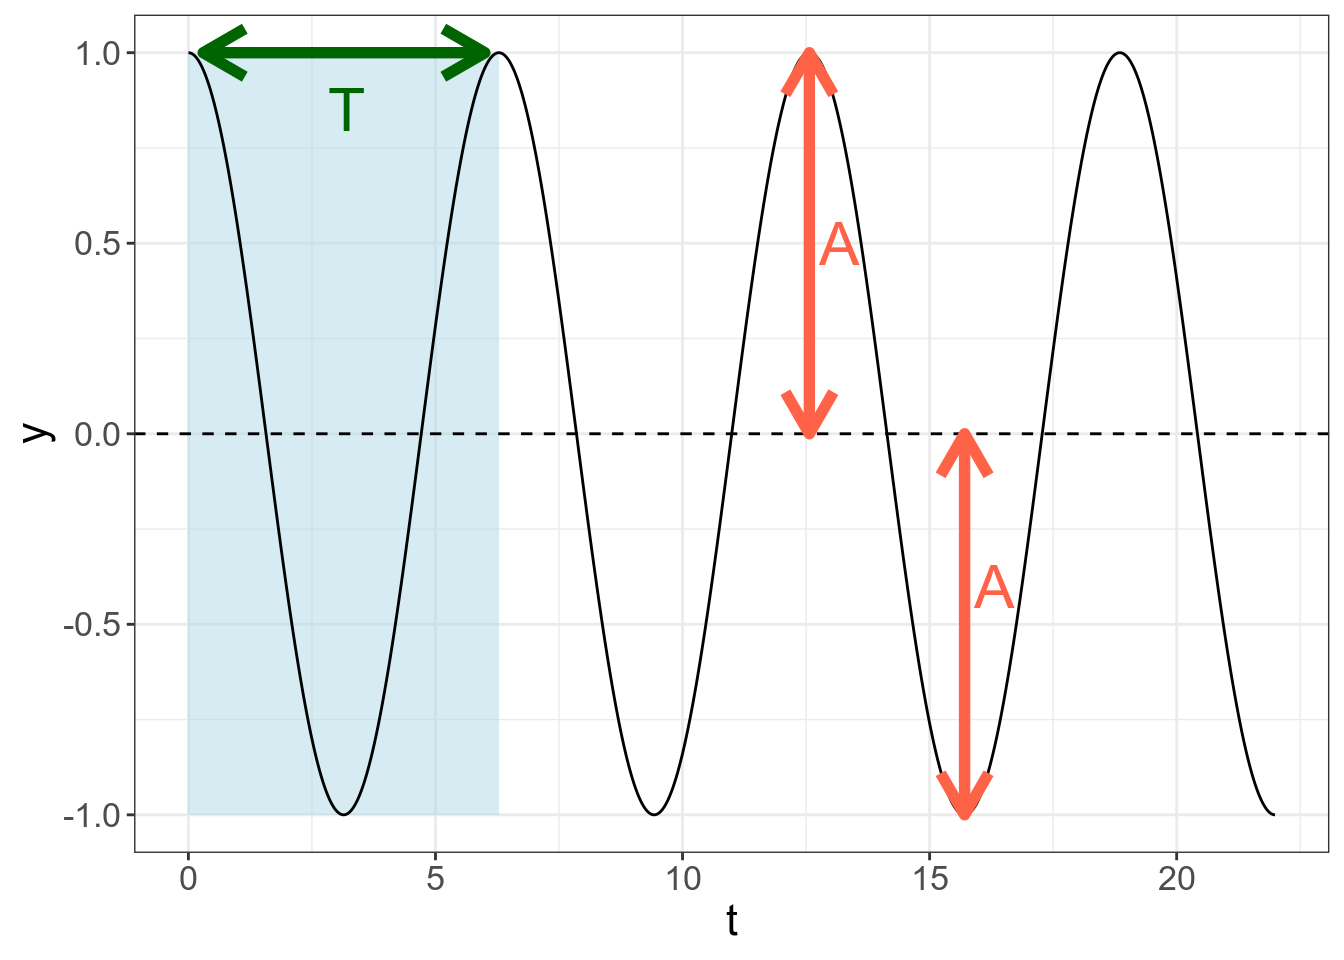
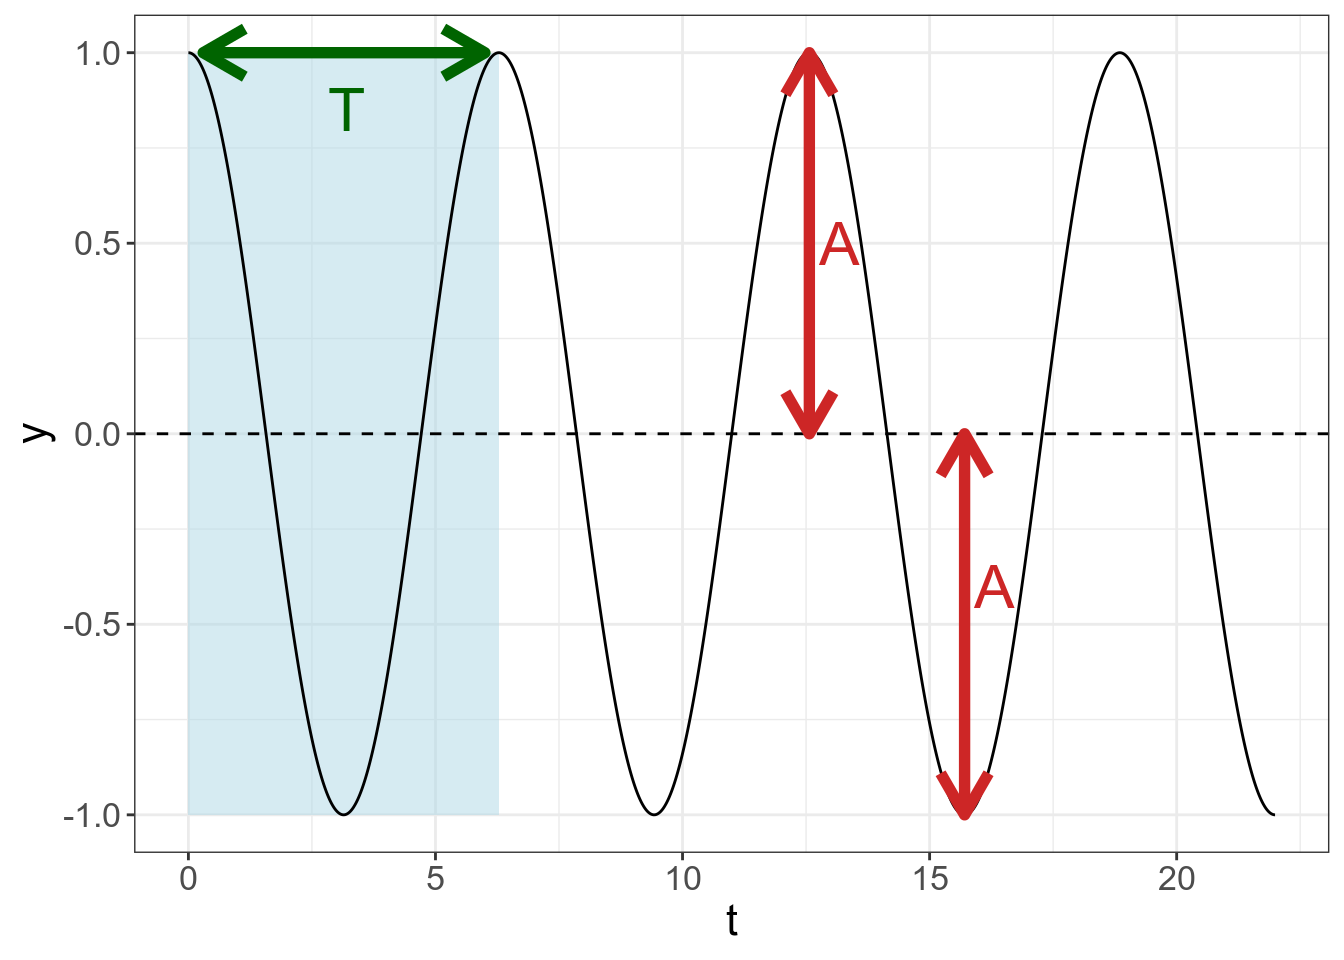
add intro to math

Changed region(s): [[0.6875, 0.4375, 0.75, 0.8438], [0.5625, 0.0312, 0.6562, 0.4688]]

diff --git a/docs/1_math.html b/docs/1_math.html
@@ -371,7 +371,7 @@ $(document).ready(function ()  {
 
     // establish options
     var options = {
-      selectors: "h1,h2,h3,h4",
+      selectors: "h1,h2,h3",
       theme: "bootstrap3",
       context: '.toc-content',
       hashGenerator: function (text) {
@@ -577,16 +577,16 @@ div.tocify {
 <span id="cb4-6"><a href="#cb4-6"></a><span class="st">  </span><span class="kw">geom_hline</span>(<span class="dt">yintercept =</span> <span class="dv">0</span>, <span class="dt">linetype =</span> <span class="dv">2</span>)<span class="op">+</span></span>
 <span id="cb4-7"><a href="#cb4-7"></a><span class="st">  </span><span class="kw">annotate</span>(<span class="st">&quot;segment&quot;</span>, <span class="dt">x =</span> <span class="fl">0.3</span>, <span class="dt">xend =</span> <span class="dv">6</span>, <span class="dt">y =</span> <span class="dv">1</span>, <span class="dt">yend =</span> <span class="dv">1</span>, <span class="dt">color =</span> <span class="st">&quot;darkgreen&quot;</span>, <span class="dt">size =</span> <span class="dv">2</span>, <span class="dt">arrow =</span> <span class="kw">arrow</span>(<span class="dt">ends =</span> <span class="st">&quot;both&quot;</span>))<span class="op">+</span></span>
 <span id="cb4-8"><a href="#cb4-8"></a><span class="st">  </span><span class="kw">annotate</span>(<span class="st">&quot;text&quot;</span>, <span class="dt">x =</span> <span class="fl">3.2</span>, <span class="dt">y =</span> <span class="fl">0.85</span>, <span class="dt">label =</span> <span class="st">&quot;T&quot;</span>, <span class="dt">size =</span> <span class="dv">8</span>, <span class="dt">color =</span> <span class="st">&quot;darkgreen&quot;</span>)<span class="op">+</span></span>
-<span id="cb4-9"><a href="#cb4-9"></a><span class="st">  </span><span class="kw">annotate</span>(<span class="st">&quot;segment&quot;</span>, <span class="dt">x =</span> <span class="dv">4</span><span class="op">*</span>pi, <span class="dt">xend =</span> <span class="dv">4</span><span class="op">*</span>pi, <span class="dt">y =</span> <span class="dv">0</span>, <span class="dt">yend =</span> <span class="dv">1</span>, <span class="dt">color =</span> <span class="st">&quot;tomato&quot;</span>, <span class="dt">size =</span> <span class="dv">2</span>, <span class="dt">arrow =</span> <span class="kw">arrow</span>(<span class="dt">ends =</span> <span class="st">&quot;both&quot;</span>))<span class="op">+</span></span>
-<span id="cb4-10"><a href="#cb4-10"></a><span class="st">  </span><span class="kw">annotate</span>(<span class="st">&quot;text&quot;</span>, <span class="dt">x =</span> <span class="dv">4</span><span class="op">*</span>pi<span class="fl">+0.6</span>, <span class="dt">y =</span> <span class="fl">0.5</span>, <span class="dt">label =</span> <span class="st">&quot;A&quot;</span>, <span class="dt">size =</span> <span class="dv">8</span>, <span class="dt">color =</span> <span class="st">&quot;tomato&quot;</span>)<span class="op">+</span></span>
-<span id="cb4-11"><a href="#cb4-11"></a><span class="st">  </span><span class="kw">annotate</span>(<span class="st">&quot;segment&quot;</span>, <span class="dt">x =</span> <span class="dv">5</span><span class="op">*</span>pi, <span class="dt">xend =</span> <span class="dv">5</span><span class="op">*</span>pi, <span class="dt">y =</span> <span class="dv">0</span>, <span class="dt">yend =</span> <span class="dv">-1</span>, <span class="dt">color =</span> <span class="st">&quot;tomato&quot;</span>, <span class="dt">size =</span> <span class="dv">2</span>, <span class="dt">arrow =</span> <span class="kw">arrow</span>(<span class="dt">ends =</span> <span class="st">&quot;both&quot;</span>))<span class="op">+</span></span>
-<span id="cb4-12"><a href="#cb4-12"></a><span class="st">  </span><span class="kw">annotate</span>(<span class="st">&quot;text&quot;</span>, <span class="dt">x =</span> <span class="dv">5</span><span class="op">*</span>pi<span class="fl">+0.6</span>, <span class="dt">y =</span> <span class="fl">-0.4</span>, <span class="dt">label =</span> <span class="st">&quot;A&quot;</span>, <span class="dt">size =</span> <span class="dv">8</span>, <span class="dt">color =</span> <span class="st">&quot;tomato&quot;</span>)</span></code></pre></div>
+<span id="cb4-9"><a href="#cb4-9"></a><span class="st">  </span><span class="kw">annotate</span>(<span class="st">&quot;segment&quot;</span>, <span class="dt">x =</span> <span class="dv">4</span><span class="op">*</span>pi, <span class="dt">xend =</span> <span class="dv">4</span><span class="op">*</span>pi, <span class="dt">y =</span> <span class="dv">0</span>, <span class="dt">yend =</span> <span class="dv">1</span>, <span class="dt">color =</span> <span class="st">&quot;firebrick3&quot;</span>, <span class="dt">size =</span> <span class="dv">2</span>, <span class="dt">arrow =</span> <span class="kw">arrow</span>(<span class="dt">ends =</span> <span class="st">&quot;both&quot;</span>)) <span class="op">+</span></span>
+<span id="cb4-10"><a href="#cb4-10"></a><span class="st">  </span><span class="kw">annotate</span>(<span class="st">&quot;text&quot;</span>, <span class="dt">x =</span> <span class="dv">4</span><span class="op">*</span>pi<span class="fl">+0.6</span>, <span class="dt">y =</span> <span class="fl">0.5</span>, <span class="dt">label =</span> <span class="st">&quot;A&quot;</span>, <span class="dt">size =</span> <span class="dv">8</span>, <span class="dt">color =</span> <span class="st">&quot;firebrick3&quot;</span>) <span class="op">+</span></span>
+<span id="cb4-11"><a href="#cb4-11"></a><span class="st">  </span><span class="kw">annotate</span>(<span class="st">&quot;segment&quot;</span>, <span class="dt">x =</span> <span class="dv">5</span><span class="op">*</span>pi, <span class="dt">xend =</span> <span class="dv">5</span><span class="op">*</span>pi, <span class="dt">y =</span> <span class="dv">0</span>, <span class="dt">yend =</span> <span class="dv">-1</span>, <span class="dt">color =</span> <span class="st">&quot;firebrick3&quot;</span>, <span class="dt">size =</span> <span class="dv">2</span>, <span class="dt">arrow =</span> <span class="kw">arrow</span>(<span class="dt">ends =</span> <span class="st">&quot;both&quot;</span>)) <span class="op">+</span></span>
+<span id="cb4-12"><a href="#cb4-12"></a><span class="st">  </span><span class="kw">annotate</span>(<span class="st">&quot;text&quot;</span>, <span class="dt">x =</span> <span class="dv">5</span><span class="op">*</span>pi<span class="fl">+0.6</span>, <span class="dt">y =</span> <span class="fl">-0.4</span>, <span class="dt">label =</span> <span class="st">&quot;A&quot;</span>, <span class="dt">size =</span> <span class="dv">8</span>, <span class="dt">color =</span> <span class="st">&quot;firebrick3&quot;</span>)</span></code></pre></div>
 <p><img src="1_math_files/figure-html/unnamed-chunk-4-1.png" width="672" /></p>
 <ul>
 <li>частота (f) — число периодов за секунду</li>
 </ul>
 <p><span class="math display">\[f = \frac{1}{T}; T = \frac{1}{f}\]</span></p>
-<p>*Звуковая волна — обычная гармоническое колебания, а параметры этого колебания связаны с некоторыми параметрами нашего восприятия:</p>
+<p>Звуковая волна — обычная гармоническое колебания, а параметры этого колебания связаны с некоторыми параметрами нашего восприятия:</p>
 <ul>
 <li><p>мы воспринимаем изменения в частотах как изменения в “высоте” звука;</p></li>
 <li><p>мы воспринимаем изменения в амплитуде волны как изменения в “громкости” звука.</p></li>
@@ -594,8 +594,8 @@ div.tocify {
 </ul>
 </div>
 </div>
-<div id="section-3" class="section level1">
-<h1>7. Дополнительные материалы</h1>
+<div id="section-3" class="section level2">
+<h2>7. Дополнительные материалы</h2>
 <ul>
 <li><a href="https://pudding.cool/2018/02/waveforms/">прекрасные материалы</a>, сделанные <a href="https://github.com/joshwcomeau"><strong>Джошуа Комо</strong></a> про волны</li>
 <li><a href="https://www.youtube.com/watch?v=T647CGsuOVU&amp;list=PLiaHhY2iBX9g6KIvZ_703G3KJXapKkNaF&amp;t=0s&amp;index=2">13 видео</a>, сделанные <a href="http://www.welchlabs.com/"><strong>Welch Labs</strong></a>, про комплексные числа</li>

diff --git a/docs/index.html b/docs/index.html
@@ -350,8 +350,8 @@ $(document).ready(function () {
 </ul>
 <div id="timetable" class="section level4">
 <h4>timetable</h4>
-<p>Все занятия будут проходить во 2-ой комнате 4-ого корпуса. <div id="htmlwidget-214efa1c0ca970c88fb3" style="width:100%;height:auto;" class="datatables html-widget"></div>
-<script type="application/json" data-for="htmlwidget-214efa1c0ca970c88fb3">{"x":{"filter":"none","data":[["07:30","09:00","10:00","12:00","14:00","15:00","17:00","19:00","20:00"],["09:00","10:00","11:30","13:30","15:00","16:30","19:00","20:00","21:30"],["","отъезд автобусов от м. Тимирязевская в 10 ч.","","","обед","","квест по знакомству со Школой","ужин","открытие 3-ого цикла Школы"],["","завтрак","Математика I","дежурство (готовим обед)","обед","","Математика II","ужин","Математика III"],["","завтрак","Praat I","Praat II","обед","Praat III","","ужин",""],["","завтрак","Гласные I","Гласные III","обед","Гласные III","","ужин",""],["","завтрак","Сонорные I","Сонорные II","обед","Сонорные III","","ужин","дежурство (моем посуду)"],["","завтрак","Шумные I","Шумные II","обед","Шумные III","","ужин",""],["дежурство (готовим завтрак)","завтрак","","Просодия I","обед","Просодия II","Просодия III","ужин",""],["","завтрак","","","обед","","","ужин",""]],"container":"<table class=\"display\">\n  <thead>\n    <tr>\n      <th>начало<\/th>\n      <th>конец<\/th>\n      <th>2019-07-21<\/th>\n      <th>2019-07-22<\/th>\n      <th>2019-07-23<\/th>\n      <th>2019-07-24<\/th>\n      <th>2019-07-25<\/th>\n      <th>2019-07-26<\/th>\n      <th>2019-07-27<\/th>\n      <th>2019-07-28<\/th>\n    <\/tr>\n  <\/thead>\n<\/table>","options":{"pageLength":7,"dom":"tip","info":false,"paging":false,"order":[],"autoWidth":false,"orderClasses":false,"lengthMenu":[7,10,25,50,100]}},"evals":[],"jsHooks":[]}</script></p>
+<p>Все занятия будут проходить во 2-ой комнате 4-ого корпуса. <div id="htmlwidget-38440f7e3fe504ab3d8d" style="width:100%;height:auto;" class="datatables html-widget"></div>
+<script type="application/json" data-for="htmlwidget-38440f7e3fe504ab3d8d">{"x":{"filter":"none","data":[["07:30","09:00","10:00","12:00","14:00","15:00","17:00","19:00","20:00"],["09:00","10:00","11:30","13:30","15:00","16:30","19:00","20:00","21:30"],["","отъезд автобусов от м. Тимирязевская в 10 ч.","","","обед","","квест по знакомству со Школой","ужин","открытие 3-ого цикла Школы"],["","завтрак","Математика I","дежурство (готовим обед)","обед","","Математика II","ужин","Математика III"],["","завтрак","Praat I","Praat II","обед","Praat III","","ужин",""],["","завтрак","Гласные I","Гласные III","обед","Гласные III","","ужин",""],["","завтрак","Сонорные I","Сонорные II","обед","Сонорные III","","ужин","дежурство (моем посуду)"],["","завтрак","Шумные I","Шумные II","обед","Шумные III","","ужин",""],["дежурство (готовим завтрак)","завтрак","","Просодия I","обед","Просодия II","Просодия III","ужин",""],["","завтрак","","","обед","","","ужин",""]],"container":"<table class=\"display\">\n  <thead>\n    <tr>\n      <th>начало<\/th>\n      <th>конец<\/th>\n      <th>2019-07-21<\/th>\n      <th>2019-07-22<\/th>\n      <th>2019-07-23<\/th>\n      <th>2019-07-24<\/th>\n      <th>2019-07-25<\/th>\n      <th>2019-07-26<\/th>\n      <th>2019-07-27<\/th>\n      <th>2019-07-28<\/th>\n    <\/tr>\n  <\/thead>\n<\/table>","options":{"pageLength":7,"dom":"tip","info":false,"paging":false,"order":[],"autoWidth":false,"orderClasses":false,"lengthMenu":[7,10,25,50,100]}},"evals":[],"jsHooks":[]}</script></p>
 <p>Расписание можно скачать <a href="https://raw.githubusercontent.com/agricolamz/2019_PhonDan/master/datasets/2019_lingdan_calendar.csv">в формате <code>.csv</code></a> и импортировать в Google Calendar, MS Outlook и т. п.</p>
 </div>
 <div id="life-conditions" class="section level4">
